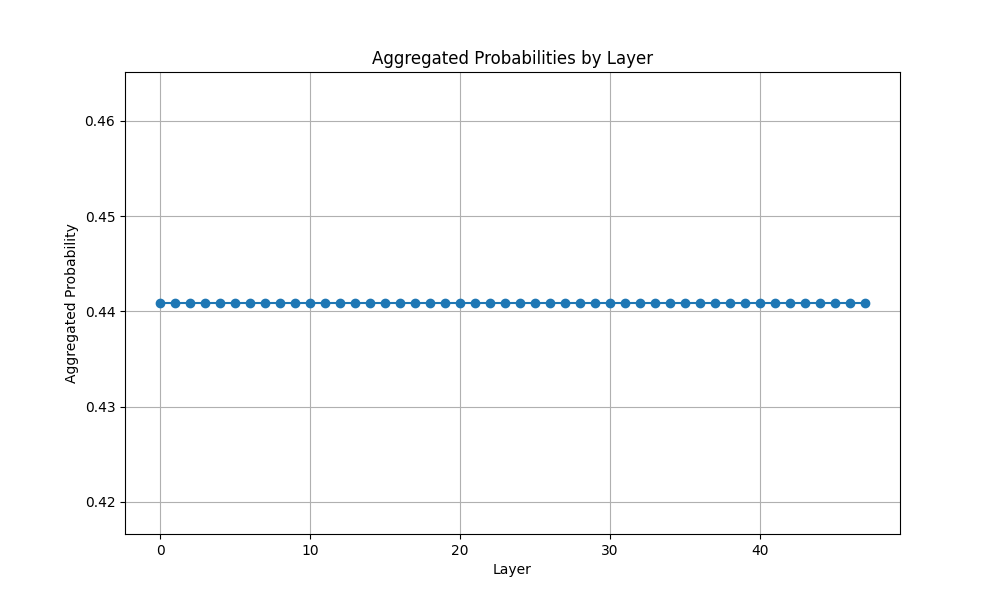
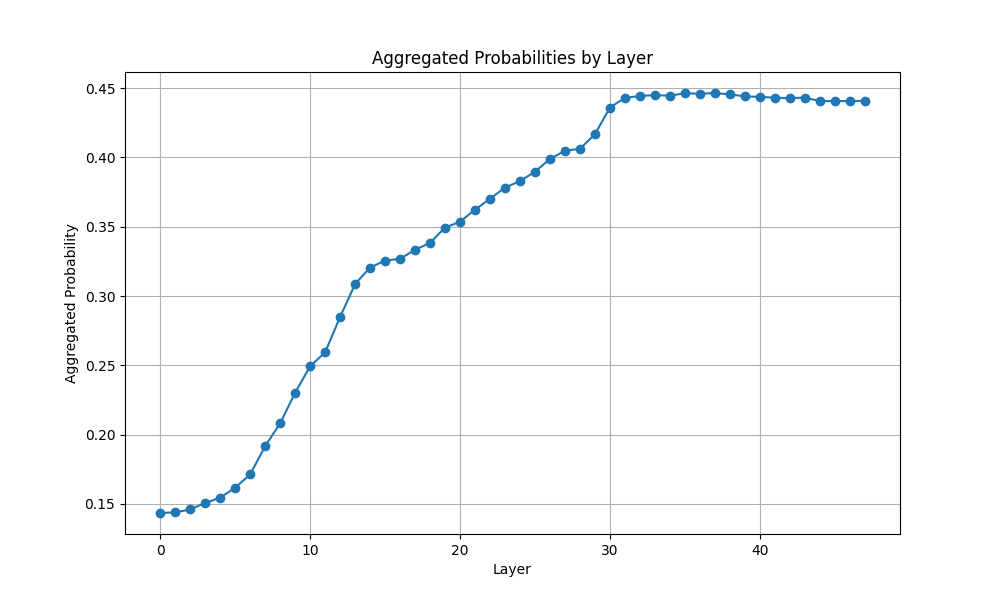
last 3 tokens

diff --git a/casual_tracing.py b/casual_tracing.py
@@ -25,7 +25,7 @@ from dsets.mquake import MQuAKEPromptCompletionDataset
 torch.set_grad_enabled(False)
 
 model_name = '/data/akshat/models/gpt2-xl'
-# model_name = "/data/akshat/models/Llama-2-7b-hf"
+model_name = "/data/akshat/models/Llama-2-7b-hf"
 
 
 model_output_name = model_name.split('/')[-1]
@@ -242,8 +242,8 @@ def aggregate_probabilities_by_layer(mt, prompts, answers, noise_level, num_laye
             # print(f'prompt: {prompt}, guess: {repr(guess_text)}, correct: {repr(correct_answer)}')
 
 
-            last_token_position = len(inp["input_ids"][0]) - 1
-            tokens_to_mix = (last_token_position, last_token_position + 1)
+            last_token_position = len(inp["input_ids"][0]) - 3
+            tokens_to_mix = (last_token_position, last_token_position + 3)
             # print(f'e_range: {tokens_to_mix}')
             
             prob = trace_with_patch(
@@ -255,7 +255,6 @@ def aggregate_probabilities_by_layer(mt, prompts, answers, noise_level, num_laye
                 noise=noise_level,
             ).item()
             
-            print(prob, layername(mt.model, layer))
 
             layer_sum += prob
             valid_count += 1
